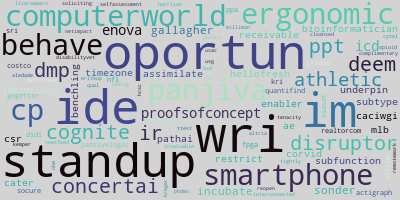
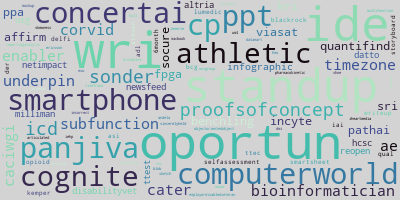
finished parsing monograms down to infra

diff --git a/nlp_main.py b/nlp_main.py
@@ -1270,9 +1270,91 @@ def clean_for_nlp(series_of_interest):
                                             'wifi', '1700', 'nondiscriminatory', 'gallagher', 'posed', 'alion', 'misconduct',
                                             'gear', 'exhibiting', 'absolute', 'circulation', 'wet', 'impress', 'countering',
                                             'pairprogramming', '1020', 'filed', 'usaf', 'cae', 'pregnancyrelated', '140', 
-                                            'chainlink', 'ended', 'celebrity', 'wildfire', '1800', 'eoeaa', 'travisci', 
+                                            'chainlink', 'ended', 'celebrity', 'wildfire', '1800', 'eoeaa', 'travisci', 'paytv', 
                                             'dohme', 'chandler', 'biomedicine', 'modeled', 'enova', 'thornton', 'drawn', 'shi',
-                                            'bisexual', 'mason', 'versa', 'gleaned']))) + ds_skills_combined
+                                            'bisexual', 'mason', 'versa', 'gleaned', 'timeframe', 'fanduel', 'stevens', 'tmobile',
+                                            'incorrect', 'crouch', 'sincerelyheld', 'garden', 'unsolved', 'predictably', 'mayor',
+                                            'internetscale', 'optimistic', 'workhuman', 'centrally', 'caciwgi', 'cannon',
+                                            'objectorientedobject', 'crown', 'hall', 'brochure', 'broadband', 'ttec', 'neiman',
+                                            'stealth', 'sketch', 'carvanas', 'residing', 'articulated', 'ccai', 'conversant',
+                                            'shoe', 'hmo', 'blob', 'freewheel', 'wwwabbviecom', 'cdao', 'milliman', 'instinct',
+                                            'brazil', 'continuation', 'wyoming', 'suspicious', 'pharmacovigilance', 'relax',
+                                            'dec', 'knot', 'powercenter', 'kemper', 'pacing', 'hello', 'servicedisabled', 
+                                            'alexandria', 'immense', 'topology', '8a', 'ring', 'clientssponsors', 'plymouth',
+                                            'warfighting', 'insatiably', 'transplant', 'notably', 'cafeteria', 'accountant',
+                                            'productionized', 'pass', 'dilemma', 'returning', 'liveperson', 'proofsofconcepts',
+                                            'cater', 'wild', 'mosaic', 'leaning', 'creatingadministering', 'broadening', 
+                                            'recognizable', 'bigpicture', 'synchronize', '5pm', 'orthodontia', 'wri', '120000', 
+                                            'tobe', 'irad', 'smallest', 'fulfil', 'soar', 'welldeveloped', 'dispersion',
+                                            'museum', 'sar', 'bennett', 'tracked', 'sequential', 'failing', 'fuzzy','meditation',
+                                            'composition', 'hoursweek', 'mockups', 'nnsa', 'calibrate', 'fto', 'horizontal',
+                                            'bcg', '1996', 'neither', 'kbi', 'onshore', 'espouse', 'longlasting', 'macbook',
+                                            'ntt', 'sunpower', 'gritty', 'anthropology', 'numerate', 'divestiture', 'imaginative',
+                                            'nccs', 'graphically', 'praxis', 'refinery', 'postoffer', 'immerse', 'nonimmigrant', 
+                                            'greenplum', 'ctc', 'citis', 'spgi', 'printed', 'predictiveprescriptive',
+                                            'computerworld', '8008355099', 'stephen', 'photocopier', 'variability', 'inappropriate',
+                                            'storagecomputedb', 'cleanlogical', 'intrinsic', 'platformsolutions', 'reignite',
+                                            'measurably', 'dmi', 'nextbest', 'organizationwide', 'massage', 'multithreading',
+                                            'faq', 'straight', 'spd', 'civic', '711', 'circleci', 'assembled', 'css3', 'medifast',
+                                            'en', 'objectivity', 'renewed', 'diner', 'xerox', 'bny', 'farthest', 'cognite',
+                                            'chime', 'paint', 'thoughtprovoking', 'in', 'bought', '32', 'actionemployer',
+                                            'suntrust', 'swp', 'suspected', 'fostered', 'diligently', 'discriminating', 'ae', 
+                                            'worldchanging', 'norfolk', 'catch', 'inpatient', 'f35', 'brunswick', '14000000',
+                                            'decisionsupport', 'reinforce', 'thimble', 'catalogue', 'xpress', '100k', 'thirty',
+                                            'counterintelligence', 'carried', 'wwwspglobalcommarketintelligence', 'internals', 
+                                            'fuse', 'realty', 'digitization', 'highlyskilled', 'revenuegenerating', '440',
+                                            'clientexternal', 'modifier', 'rack', 'spain', '55000', 'rebate', 'fhir', 'opened', 
+                                            'beer', 'trainee', 'bilingual', 'walnut', 'widen', 'returntooffice', 'metamorphosis',
+                                            'probably', '38', 'barclays', 'importantsome', 'sri', 'unsecured', 'perhaps',
+                                            'servicenowaffiliated', 'visioning', '55a', 'hippo', 'animation', 'arming', 'viz', 
+                                            'asis', 'simulink', 'iccv', 'summation', 'addicted', 'ayco', 'bbt', 'faa', 
+                                            'visanet', 'cashless', 'viewer', 'compact', 'delaware', 'hughes', 'sdtmadam',
+                                            'instantly', 'gen', 'abroad', 'ddt', 'seoul', 'aarrr', 'pirate', 'selflearning',
+                                            'businessagency', 'stalking', 'marketo', 'fdic', '9001', '97', 'leisure', 'upbeat',
+                                            'enduras', 'degradation', 'gainesville', 'northeast', 'synthesizes', 'substantially',
+                                            'paidtime', 'hunting', 'changer', 'starbucks', 'ariba', 'bama', 'iai', 'harvest',
+                                            'intelligenesis', 'signet', 'pak', 'glean', 'nbc', 'horiba', 'rfp', 'milwaukee',
+                                            'auditable', 'wwwaccenturecom', 'ro', 'neon', 'englishspanish', 'rewire', 'wafer',
+                                            'seedinvest', 'cohesion', '43', 'sondermind', 'aerial', 'lime', 'recurlys', '42',
+                                            'moore', 'ulta', 'cbs', 'americorps', 'phenotype', 'oakland', 'tyson', 
+                                            'essentially', 'passive', 'dentalvision', 'bag', 'noncompete', 'lumedic', 'groupons',
+                                            'disparity', 'visualized', 'touched', 'juggling', 'datto', '18000', 'interactivity', 
+                                            'versioned', 'salesforces', 'cdp', 'biorad', 'ben', 'disseminating', 'readability',
+                                            'calculator', 'male', 'icd', 'ppt', 'stash', 'kidney', 'msu', 'cited', 'tempus', 
+                                            'infuse', 'critique', 'uis', 'multilabel', 'detects', 'jupiter', 'betting', 
+                                            'productionization', 'stopping', 'netimpact', 'andela', 'dearborn', 'burning',
+                                            '16000', 'singularity', 'enriches', 'plane', 'xator', '360000', 'pediatrics', 
+                                            'imagevideo', 'videographers', 'marketdisrupting', 'headlinedriving', 'vessel',
+                                            'societychanging', 'veritas', 'assisted', 'engineersscientists', 'infographics',
+                                            'cyberattacks', 'irrespective', 'meade', 'apron', 'streamlit', '1999', 'interchange',
+                                            'ead', 'prioritise', 'bunch', 'tumblr', 'recruitingaccommodationsgettyimagescom', 
+                                            'gendernonbinary', 'rudeness', 'photographer', 'reused', 'firstplace', 'healthtech',
+                                            'potff', 'crisp', 'exploding', 'slate', 'concertai', 'foresight', 'regulartemporary',
+                                            '35000', 'geometry', 'underpin', 'morse', 'usb', 'apac', 'doctrine', 'lawrence',
+                                            'podcast', 'referenced', 'wwwistockcom', 'punctual', 'industrialization', 'nielseniq',
+                                            '275', 'athletic', 'hyperion', 'genre', 'upandcoming', 'interpretive', 'gone', 
+                                            'monfri', 'caribbean', 'necessity', 'declaration', 'multibilliondollar', 'compose',
+                                            'pinnacle', 'un', 'nba', 'mentally', 'oportuns', 'oportun', 'retire', 'removal',
+                                            'meritocracy', 'implementable', 'penchant', 'feedzai', 'kraft', 'clientside', 'heinz',
+                                            'regionspecific', 'rpl', 'prevalence', 'lawyer', '2dose', 'showcasing', 'kdp',
+                                            'facial', 'louisville', '130000', 'being', 'fullyvaccinated', 'homepage', 'multiagent',
+                                            'highland', 'scheduler', 'racing', 'rotating', 'intricacy', 'httpsbenefitsindeedjobs',
+                                            'iehp', 'mayvin', 'inconsistent', 'linguistic', 'clearing', 'broadest', 'bomber', 
+                                            'moon', 'lims', 'httpwwwnorthropgrummancomeeo', 'disconnected', 'patience',
+                                            'uncertain', 'superiority', 'loyal', 'ofac', 'paste', 'bing', 'rhode', 'smithfield',
+                                            'iheartradio', 'vue', 'atypical', 'endlessly', 'rendering', 'llnl', 'whollyowned',
+                                            'village', 'evolutionary', 'datafirst', 'psychometric', 'crosscultural', 'daylight',
+                                            '14043', 'ajax', 'agronomy', 'refusal', 'cbre', '1974', 'lewis', 'bleeding',
+                                            'anderson', 'inspirational', 'beneficiary', 'brighams', 'viasat', 'dao', 'incyte',
+                                            '570000', 'blink', 'musical', 'latestage', 'twist', 'modernized', 'chester', 'komodo',
+                                            'recruitingaccommodationguidehousecom', '607415a', 'discovers', 'comp', 'multimedia',
+                                            'strauss', 'ribbon', 'outfit', 'uscentcom', 'scientistengineer', 'hyperpersonalized',
+                                            'sow', 'rebellion', 'unposting', 'artifactory', 'subsequently', 'out', 'c2c', 'mph',
+                                            'surrogacy', 'kwx', 'replicate', 'bioinformatic', 'distributes', 'inter',
+                                            'abnormality', 'installed', 'basket', 'agendasetting', 'iowa', 'expertly',
+                                            'wwwguidehousecom', 'briefly', 'persuasion', 'commencing', 'productionalizing',
+                                            'licensures', 'budgetary', '119880', 'httpswwwlinkedincomcompany1603', 'patreon', 
+                                            'ihub', 'acrobat', 'attrition', 'eventbrite', 'samara', 'sentar', 'infra']))) + ds_skills_combined
     
     # create stop_words object and toggle on/off additional stop words
     stop_words = nltk.corpus.stopwords.words('english') + additional_stopwords + ds_cred_terms + ds_prof_skill_terms + ds_soft_skill_terms + ds_tech_skill_terms
@@ -1577,6 +1659,7 @@ ds_cred_terms = ['ability',
                  'biostatisticians',
                  'biotech',
                  'biotechnology',
+                 'bootcamp',
                  'bootcamps',
                  'bsba',
                  'bsc',
@@ -1641,6 +1724,7 @@ ds_cred_terms = ['ability',
                  'knowledge',
                  'licensecertification',
                  'linkedin',
+                 'literate',
                  'major',
                  'master',
                  'mastersphd',
@@ -1670,6 +1754,7 @@ ds_cred_terms = ['ability',
                  'professional',
                  'professionally',
                  'proficiency',
+                 'proficiently',
                  'proven',
                  'publication',
                  'quantifiable',
@@ -1684,6 +1769,7 @@ ds_cred_terms = ['ability',
                  'school',
                  'sci',
                  'science',
+                 'sciencelogic',
                  'scienceanalytics',
                  'sciencedata',
                  'scienceengineering',
@@ -1695,14 +1781,17 @@ ds_cred_terms = ['ability',
                  'social',
                  'software',
                  'solid', 
+                 'spectrometry',
                  'ssbi',
                  'statistic',
+                 'statisticsbiostatistics',
                  'statisticalmathematical',
                  'statistics',
                  'statistician',
                  'stem',
                  'system', 
                  'technical',
+                 'topsecret',
                  'track',
                  'training',
                  'tssci',
@@ -1751,6 +1840,7 @@ ds_tech_skill_terms = ['ab',
                      'analytical',
                      'analytic',
                      'analytics',
+                     'analyticsbased',
                      'analyticsdata',
                      'analytically',
                      'analyse',
@@ -1762,6 +1852,7 @@ ds_tech_skill_terms = ['ab',
                      'anomaly', 
                      'anova',
                      'ansible',
+                     'ansys',
                      'apache', 
                      'api',
                      'apis',
@@ -1777,6 +1868,7 @@ ds_tech_skill_terms = ['ab',
                      'arima',
                      'artificial',
                      'asaservice',
+                     'aspnet',
                      'assumption',
                      'asr',
                      'athena',
@@ -1871,7 +1963,10 @@ ds_tech_skill_terms = ['ab',
                      'containerized',
                      'continuous',
                      'control',
+                     'convex',
                      'convolutional',
+                     'corenlp',
+                     'corpus',
                      'correlate',
                      'correlation',
                      'cosmos',
@@ -1919,6 +2014,7 @@ ds_tech_skill_terms = ['ab',
                      'decomposition',  
                      'deep',
                      'deeplearning',
+                     'delfi',
                      'demonstrate',
                      'deploy',
                      'design', 
@@ -2027,6 +2123,7 @@ ds_tech_skill_terms = ['ab',
                      'ggplot2',
                      'git',
                      'github', 
+                     'gitgithub',
                      'gitlab',
                      'glm',
                      'glms',
@@ -2034,6 +2131,7 @@ ds_tech_skill_terms = ['ab',
                      'glue',
                      'golang',
                      'google',
+                     'gpt',
                      'gpu',
                      'gpus',
                      'gradient', 
@@ -2045,6 +2143,7 @@ ds_tech_skill_terms = ['ab',
                      'gtm',
                      'h2o',
                      'hadoop',
+                     'hadoopspark',
                      'hana',
                      'hardware',
                      'hbase',
@@ -2062,6 +2161,7 @@ ds_tech_skill_terms = ['ab',
                      'hyperparameter',
                      'hypothesis', 
                      'hypothesisdriven',
+                     'ide',
                      'image',
                      'imaging',
                      'imagery',
@@ -2118,6 +2218,7 @@ ds_tech_skill_terms = ['ab',
                      'large',
                      'largescale',
                      'latest',
+                     'lda', 
                      'leadingedge',
                      'learning',
                      'learningai',
@@ -2130,6 +2231,7 @@ ds_tech_skill_terms = ['ab',
                      'library',
                      'lidar',
                      'lifecycle',
+                     'lightgbm',
                      'likelihood',
                      'linear', 
                      'linearnonlinear',
@@ -2197,10 +2299,13 @@ ds_tech_skill_terms = ['ab',
                      'mlrelated',
                      'model',
                      'modelsalgorithms',
+                     'modelbased',
+                     'modeldriven',
                      'modelintent',
                      'modeler',
                      'modeling',
                      'modelling',
+                     'modelingmachine',
                      'modelsmethods',
                      'modern',
                      'mongo',
@@ -2230,6 +2335,7 @@ ds_tech_skill_terms = ['ab',
                      'nifi',
                      'nlp',
                      'nlpnlu',
+                     'nlpml',
                      'nltk',
                      'nlu',
                      'nn',
@@ -2260,6 +2366,7 @@ ds_tech_skill_terms = ['ab',
                      'optimal',
                      'optimally',
                      'optimize',
+                     'optimise',
                      'optimized',
                      'optimizes',
                      'optimization',
@@ -2297,10 +2404,12 @@ ds_tech_skill_terms = ['ab',
                      'plotly',
                      'plsql',
                      'postgres', 
+                     'postgresdb',
                      'postgresql', 
                      'power',
                      'powerbi',
                      'powershell',
+                     'ppas',
                      'predict',
                      'predicting',
                      'predictive',
@@ -2343,6 +2452,7 @@ ds_tech_skill_terms = ['ab',
                      'rd',
                      'rabbitmq',
                      'random', 
+                     'randomization',
                      'randomized',
                      'rasa',
                      'raw',
@@ -2383,6 +2493,7 @@ ds_tech_skill_terms = ['ab',
                      'rpa',
                      'rpython',
                      'rshiny',
+                     'rrstudio',
                      'rstudio',
                      'ruby',
                      'rust',
@@ -2417,6 +2528,7 @@ ds_tech_skill_terms = ['ab',
                      'scrum',
                      'scrumagile',
                      'scikit',
+                     'scikitimage',
                      'scikitlearn',
                      'scipy',
                      'scraping',
@@ -2450,6 +2562,7 @@ ds_tech_skill_terms = ['ab',
                      'signal', 
                      'simulate',
                      'simulation',
+                     'skewness',
                      'skill',
                      'sklearn',
                      'snowflake',
@@ -2463,6 +2576,7 @@ ds_tech_skill_terms = ['ab',
                      'sparkcognition',
                      'sparkml',
                      'sparksql',
+                     'sparql',
                      'spatial',
                      'speech', 
                      'speechlanguage',
@@ -2473,6 +2587,7 @@ ds_tech_skill_terms = ['ab',
                      'sprint',
                      'spss',
                      'sql',
+                     'sqlbased',
                      'sqlnosql',
                      'sqlpython',
                      'slq',
@@ -2552,6 +2667,7 @@ ds_tech_skill_terms = ['ab',
                      'uncover', 
                      'unix',
                      'unixshell',
+                     'windowsunix',
                      'univariate',
                      'unstructured',
                      'user',
@@ -2814,6 +2930,7 @@ ds_soft_skill_terms = ['ad',
                      'selfdirected',
                      'selfdirection',
                      'selfmanage',
+                     'selfmanagement',
                      'selfdevelopment',
                      'selfdriven',
                      'selfstarter',
@@ -2886,6 +3003,7 @@ ds_prof_skill_terms = ['ability',
                        'chosen',
                        'client',
                        'clientfacing',
+                       'clientfocused',
                        'coach',
                        'coaching',
                        'complex', 
@@ -2901,6 +3019,7 @@ ds_prof_skill_terms = ['ability',
                        'dataset',
                        'datasets',
                        'decision', 
+                       'decisionmaker',
                        'decisionmaking',
                        'decisionmakers',
                        'deep', 
@@ -3103,7 +3222,7 @@ visualize_indeed_data(df)
 
 # execute nlp   NEED TO DECONFLICT SKILL LISTS AND STOPWORD LISTS
 n_gram_count = 1
-n_gram_range_start, n_gram_range_stop  = 0, 400 # 3900, 4000 # NEXT - advance the range
+n_gram_range_start, n_gram_range_stop  = 0, 600 # 3900, 4000 # NEXT - advance the range
 n_grams = count_n_grams(terms_for_nlp, n_gram_count, n_gram_range_start, n_gram_range_stop)
 
 visualize_word_clouds(terms_for_nlp)
